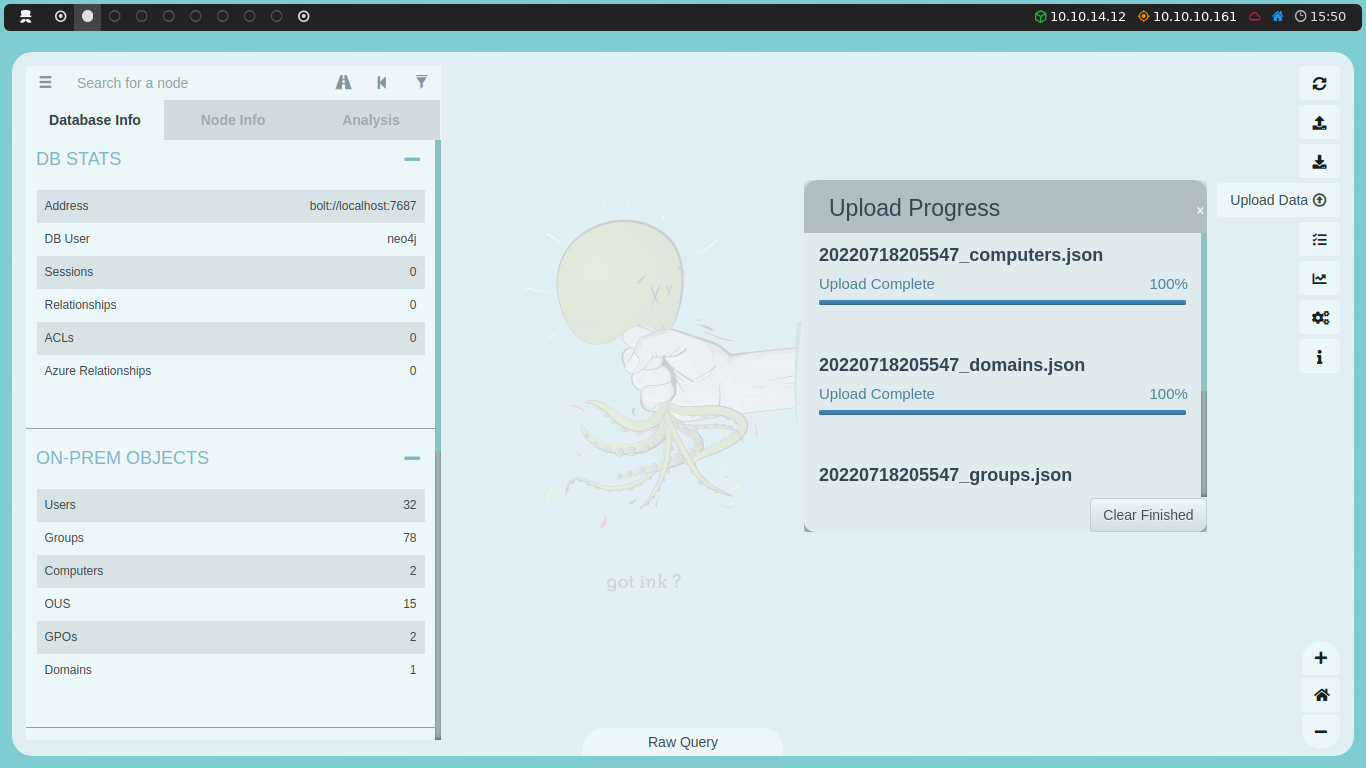
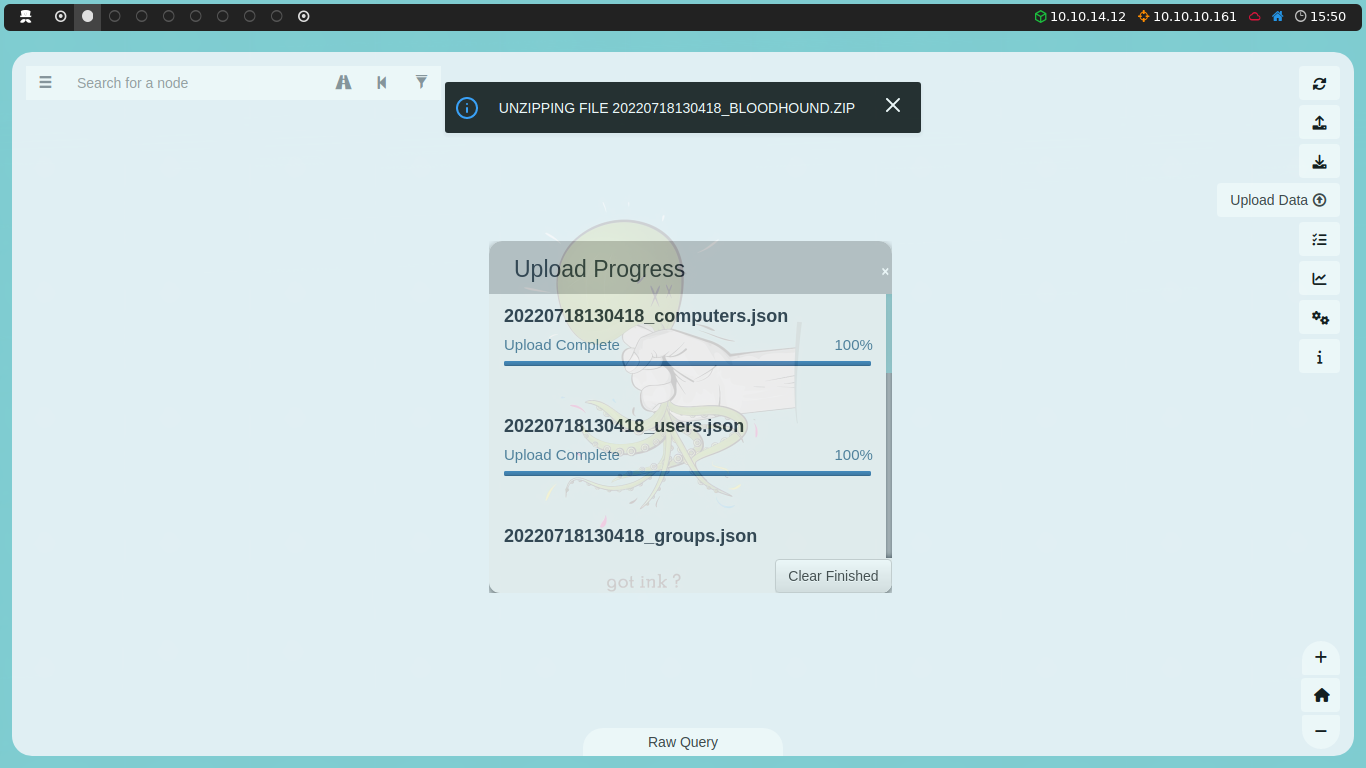
assets

diff --git a/_posts/_es/2024-07-08-Forest-Hack-The-Box.md b/_posts/_es/2024-07-08-Forest-Hack-The-Box.md
@@ -194,7 +194,7 @@ crackmapexec winrm 10.10.10.161 -u 'svc-alfresco' -p 's3rvice'
 
 ![](https://raw.githubusercontent.com/MateoNitro550/MateoNitro550.github.io/main/assets/2024-07-08-Forest-Hack-The-Box/17.png){:class="blog-image" onclick="expandImage(this)"}
 
-Nos damos cuenta de que la credencial no solo es válida, sino también que este usuario pertenece al grupo _Remote Management Users_, ya que vemos junto al nombre de usuario un mensaje que dice "_Pwn3d!_". Por lo tanto, podemos conectarnos a la máquina víctima mediante `Evil-WinRM`.
+Nos damos cuenta de que la credencial no solo es válida, sino también que este usuario pertenece al grupo _Remote Management Users_, ya que vemos junto al nombre de usuario un mensaje que dice _Pwn3d!_. Por lo tanto, podemos conectarnos a la máquina víctima mediante `Evil-WinRM`.
 
 Procederemos a conectarnos de la siguiente manera:
 
@@ -229,20 +229,41 @@ download <timestamp>_BloodHound.zip BloodHound.zip
 
 ![](https://raw.githubusercontent.com/MateoNitro550/MateoNitro550.github.io/main/assets/2024-07-08-Forest-Hack-The-Box/19.png){:class="blog-image" onclick="expandImage(this)"}
 
+Lo siguiente que haremos será importar el archivo comprimido que generó `SharpHound` a `BloodHound`. Para ello, en caso de no contar con la herramienta instalada, podemos hacer lo siguiente:
 
 ```bash
+sudo apt install neo4j bloodhound
+```
 
+_Neo4j_ es la base de datos gráfica que `BloodHound` utiliza. La arrancaremos de la siguiente manera:
+
+```bash
+sudo neo4j console
 ```
 
 ![](https://raw.githubusercontent.com/MateoNitro550/MateoNitro550.github.io/main/assets/2024-07-08-Forest-Hack-The-Box/20.png){:class="blog-image" onclick="expandImage(this)"}
 
+Nos indicará que nos dirijamos a [http://localhost:7474/](http://localhost:7474/). Para conectarnos a _Neo4j_ por primera vez, las credenciales que introduciremos son las que vienen por defecto:
+
+* Username: neo4j
+* Password: neo4j
+
 ![](https://raw.githubusercontent.com/MateoNitro550/MateoNitro550.github.io/main/assets/2024-07-08-Forest-Hack-The-Box/21.png){:class="blog-image" onclick="expandImage(this)"}
+
+A continuación, nos solicitará que cambiemos la contraseña; esta será la que utilizaremos para BloodHound.
 
 ![](https://raw.githubusercontent.com/MateoNitro550/MateoNitro550.github.io/main/assets/2024-07-08-Forest-Hack-The-Box/22.png){:class="blog-image" onclick="expandImage(this)"}
 
+Una vez abramos BloodHound y nos logueemos, en la parte derecha veremos una sección que dice _Upload Data_. Aquí es donde subiremos nuestro archivo comprimido.
+
 ![](https://raw.githubusercontent.com/MateoNitro550/MateoNitro550.github.io/main/assets/2024-07-08-Forest-Hack-The-Box/23.png){:class="blog-image" onclick="expandImage(this)"}
 
+
+En la barra de búsqueda en la parte superior izquierda, podemos buscar por el usuario que acabamos de comprometer, `svc-alfresco`. Podemos hacer clic derecho sobre él y seleccionar _Mark User as Owned_.
+
 ![](https://raw.githubusercontent.com/MateoNitro550/MateoNitro550.github.io/main/assets/2024-07-08-Forest-Hack-The-Box/24.png){:class="blog-image" onclick="expandImage(this)"}
+
+Si nos dirigimos al apartado _Analysis_, encontraremos una sección _Shortest Paths_. Dentro de esta sección, seleccionamos _Shortest Path from Owned Principals_. Al hacer clic, se desplegará un gráfico que ilustra el mejor camino para convertirnos en administrador del sistema.
 
 ![](https://raw.githubusercontent.com/MateoNitro550/MateoNitro550.github.io/main/assets/2024-07-08-Forest-Hack-The-Box/25.png){:class="blog-image" onclick="expandImage(this)"}
 
